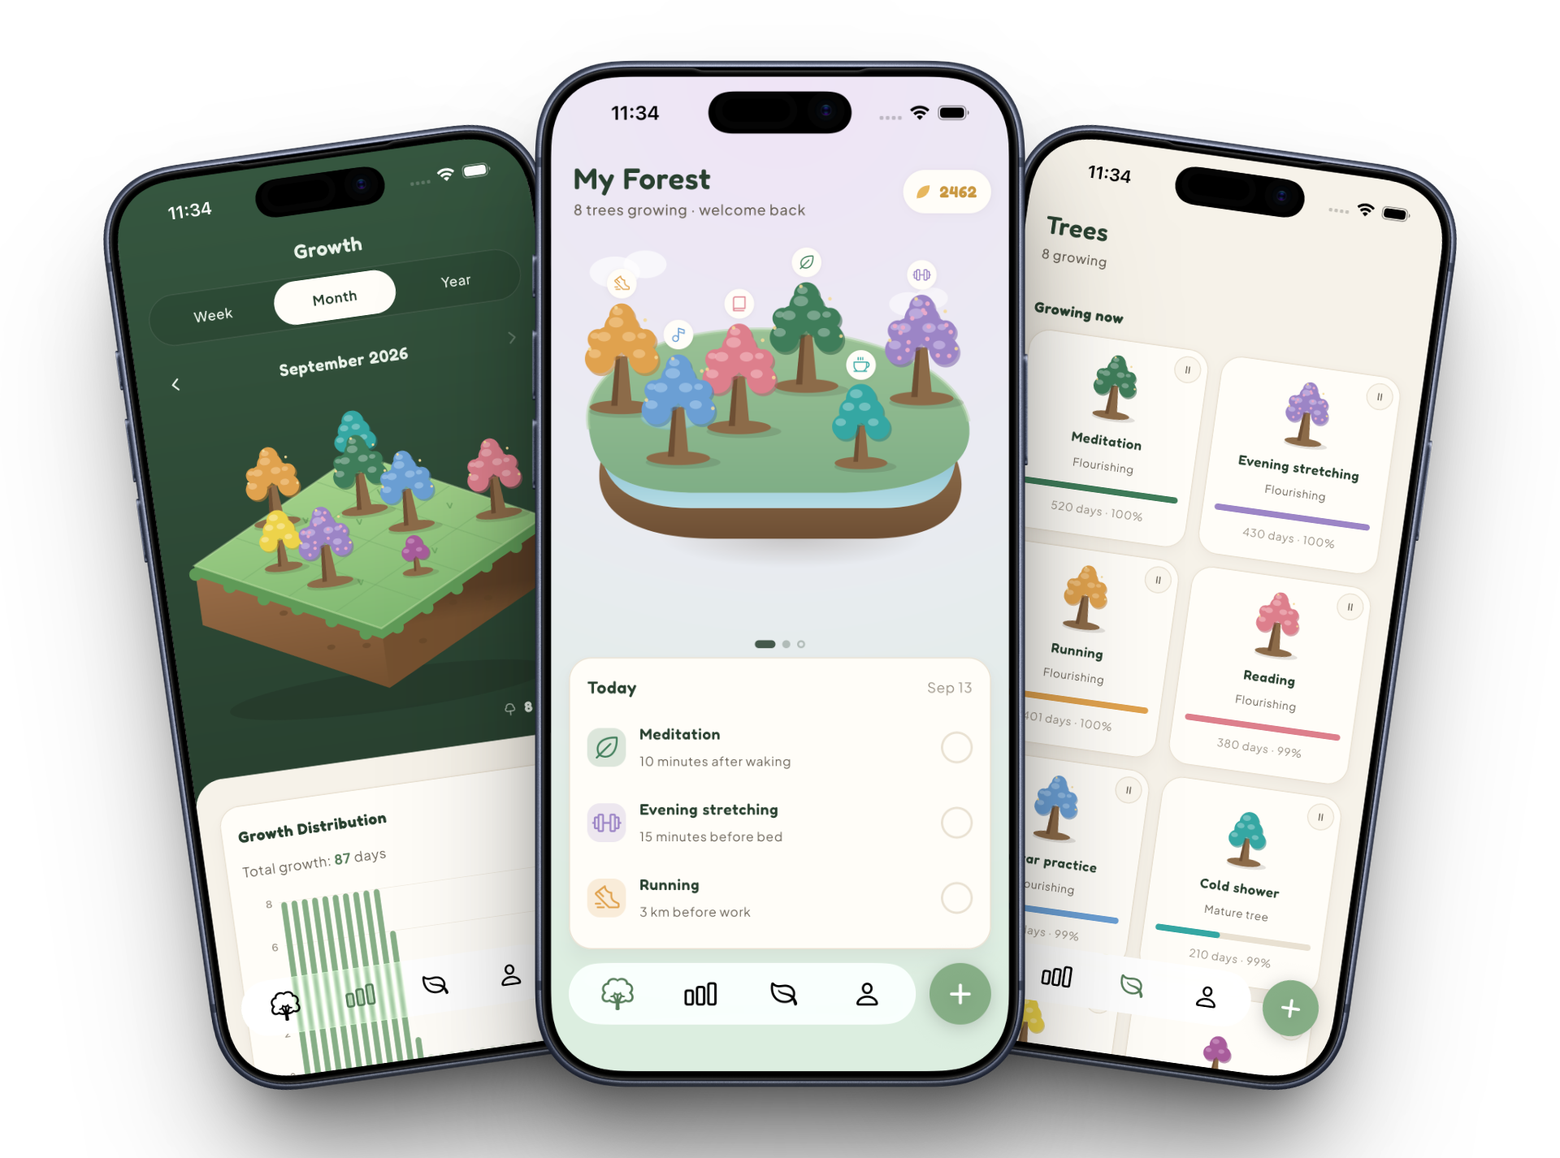
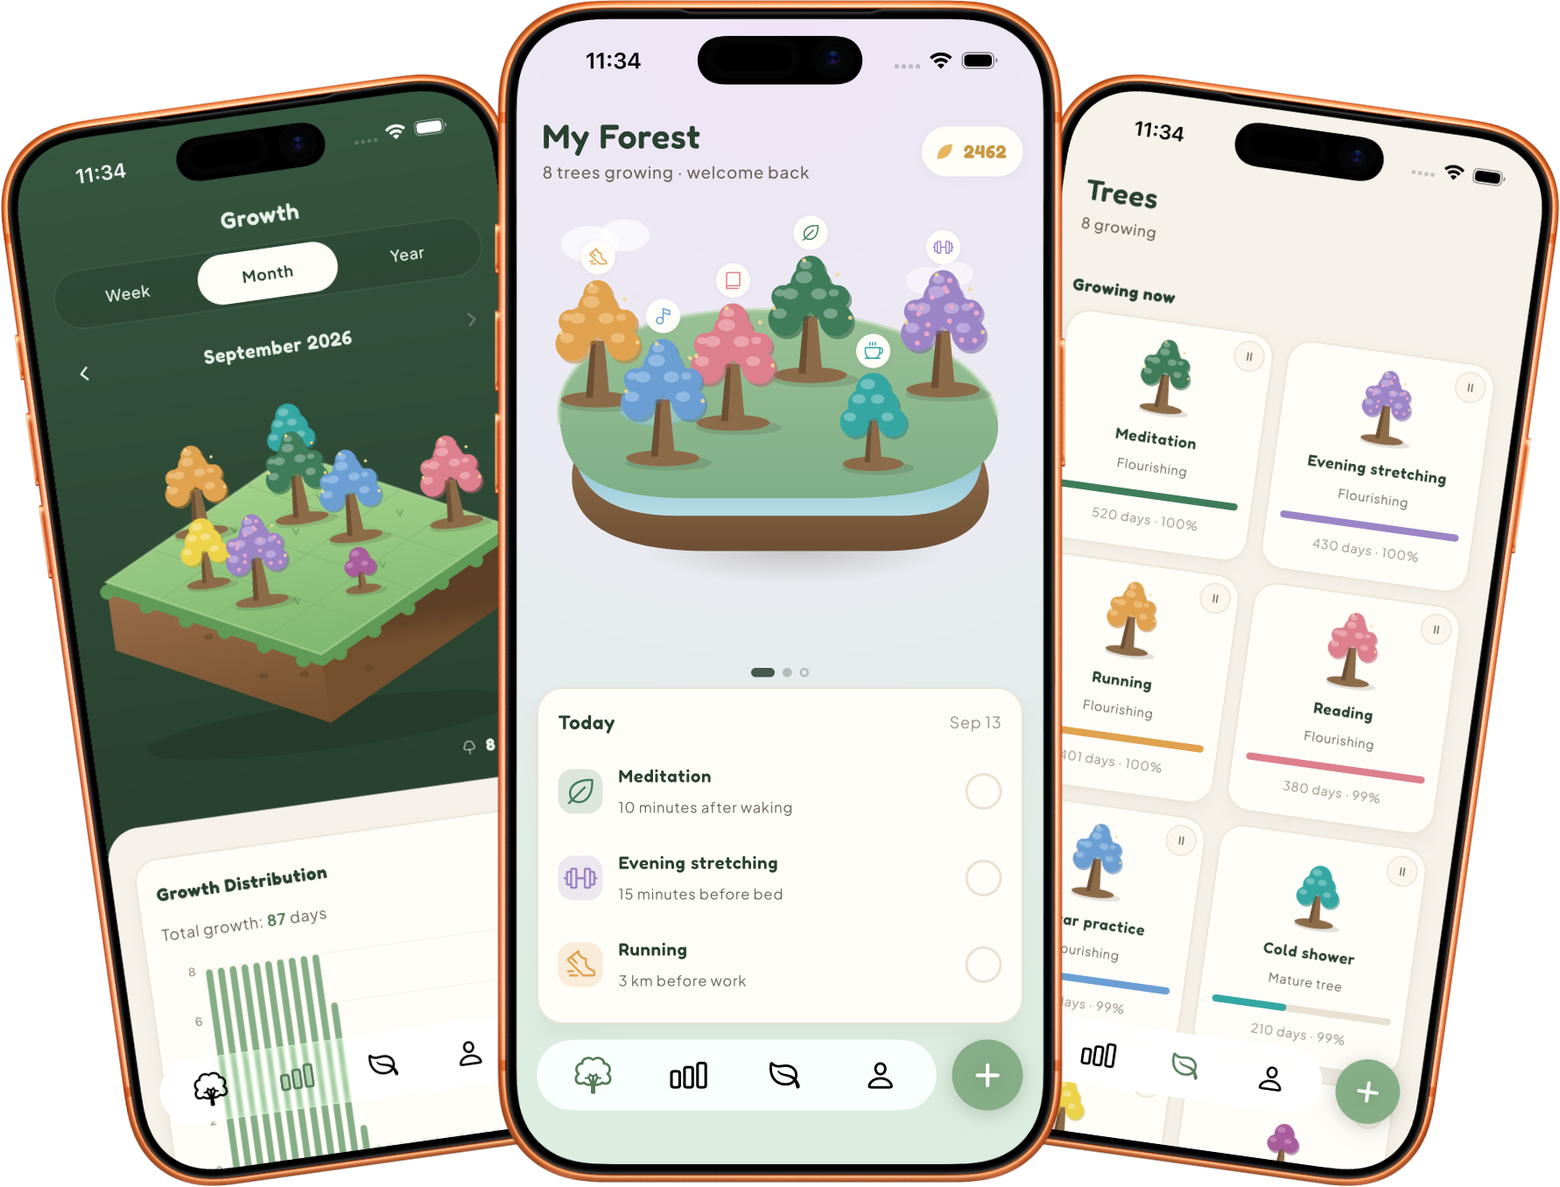
Add files via upload

diff --git a/index.html b/index.html
@@ -111,8 +111,8 @@ nav .btn{padding:.68rem 1.25rem; font-size:.95rem}
 /* phone */
 .phone-stage{position:relative; display:flex; justify-content:center; align-items:center}
 .phone-stage::before{
-  content:""; position:absolute; inset:-8% -2%; border-radius:50%;
-  background:radial-gradient(ellipse at 50% 52%, rgba(110,231,183,.42), rgba(243,238,229,0) 68%);
+  content:""; position:absolute; inset:-10% -6%; border-radius:50%;
+  background:radial-gradient(ellipse at 50% 48%, rgba(110,231,183,.22), rgba(243,238,229,0) 70%);
 }
 .hero-shot{position:relative; width:100%; max-width:780px}
 
@@ -292,7 +292,7 @@ footer{background:var(--forest-deep); color:#C6D3C2; padding:3.5rem 0 2.5rem; ma
     <div class="phone-stage reveal">
       <picture>
         <source srcset="images/hero-phones.webp" type="image/webp">
-        <img class="hero-shot" src="images/hero-phones.png" alt="Three Habiora screens: the Growth island for September, the My Forest home screen, and the Trees list" width="1560" height="1158" fetchpriority="high">
+        <img class="hero-shot" src="images/hero-phones.png" alt="Three Habiora screens: the Growth island for September, the My Forest home screen, and the Trees list" width="1560" height="1187" fetchpriority="high">
       </picture>
     </div>
   </div>
@@ -424,7 +424,7 @@ footer{background:var(--forest-deep); color:#C6D3C2; padding:3.5rem 0 2.5rem; ma
       <figure><img src="images/screens/forest.png" alt="Home screen" loading="lazy"><figcaption>Today, on one screen</figcaption></figure>
       <figure><img src="images/screens/trees.png" alt="Trees screen" loading="lazy"><figcaption>Every tree you're growing</figcaption></figure>
       <figure><img src="images/screens/growth-week.png" alt="Growth screen" loading="lazy"><figcaption>The week from above</figcaption></figure>
-      <figure><img src="images/screens/edit-habit-icons.png" alt="Icon picker" loading="lazy"><figcaption>Species, icons, goals</figcaption></figure>
+      <figure><img src="images/screens/create-habit.png" alt="The Create a habit screen with tree species, icon picker and habit type" loading="lazy"><figcaption>Plant a new habit</figcaption></figure>
     </div>
   </div>
 </section>
